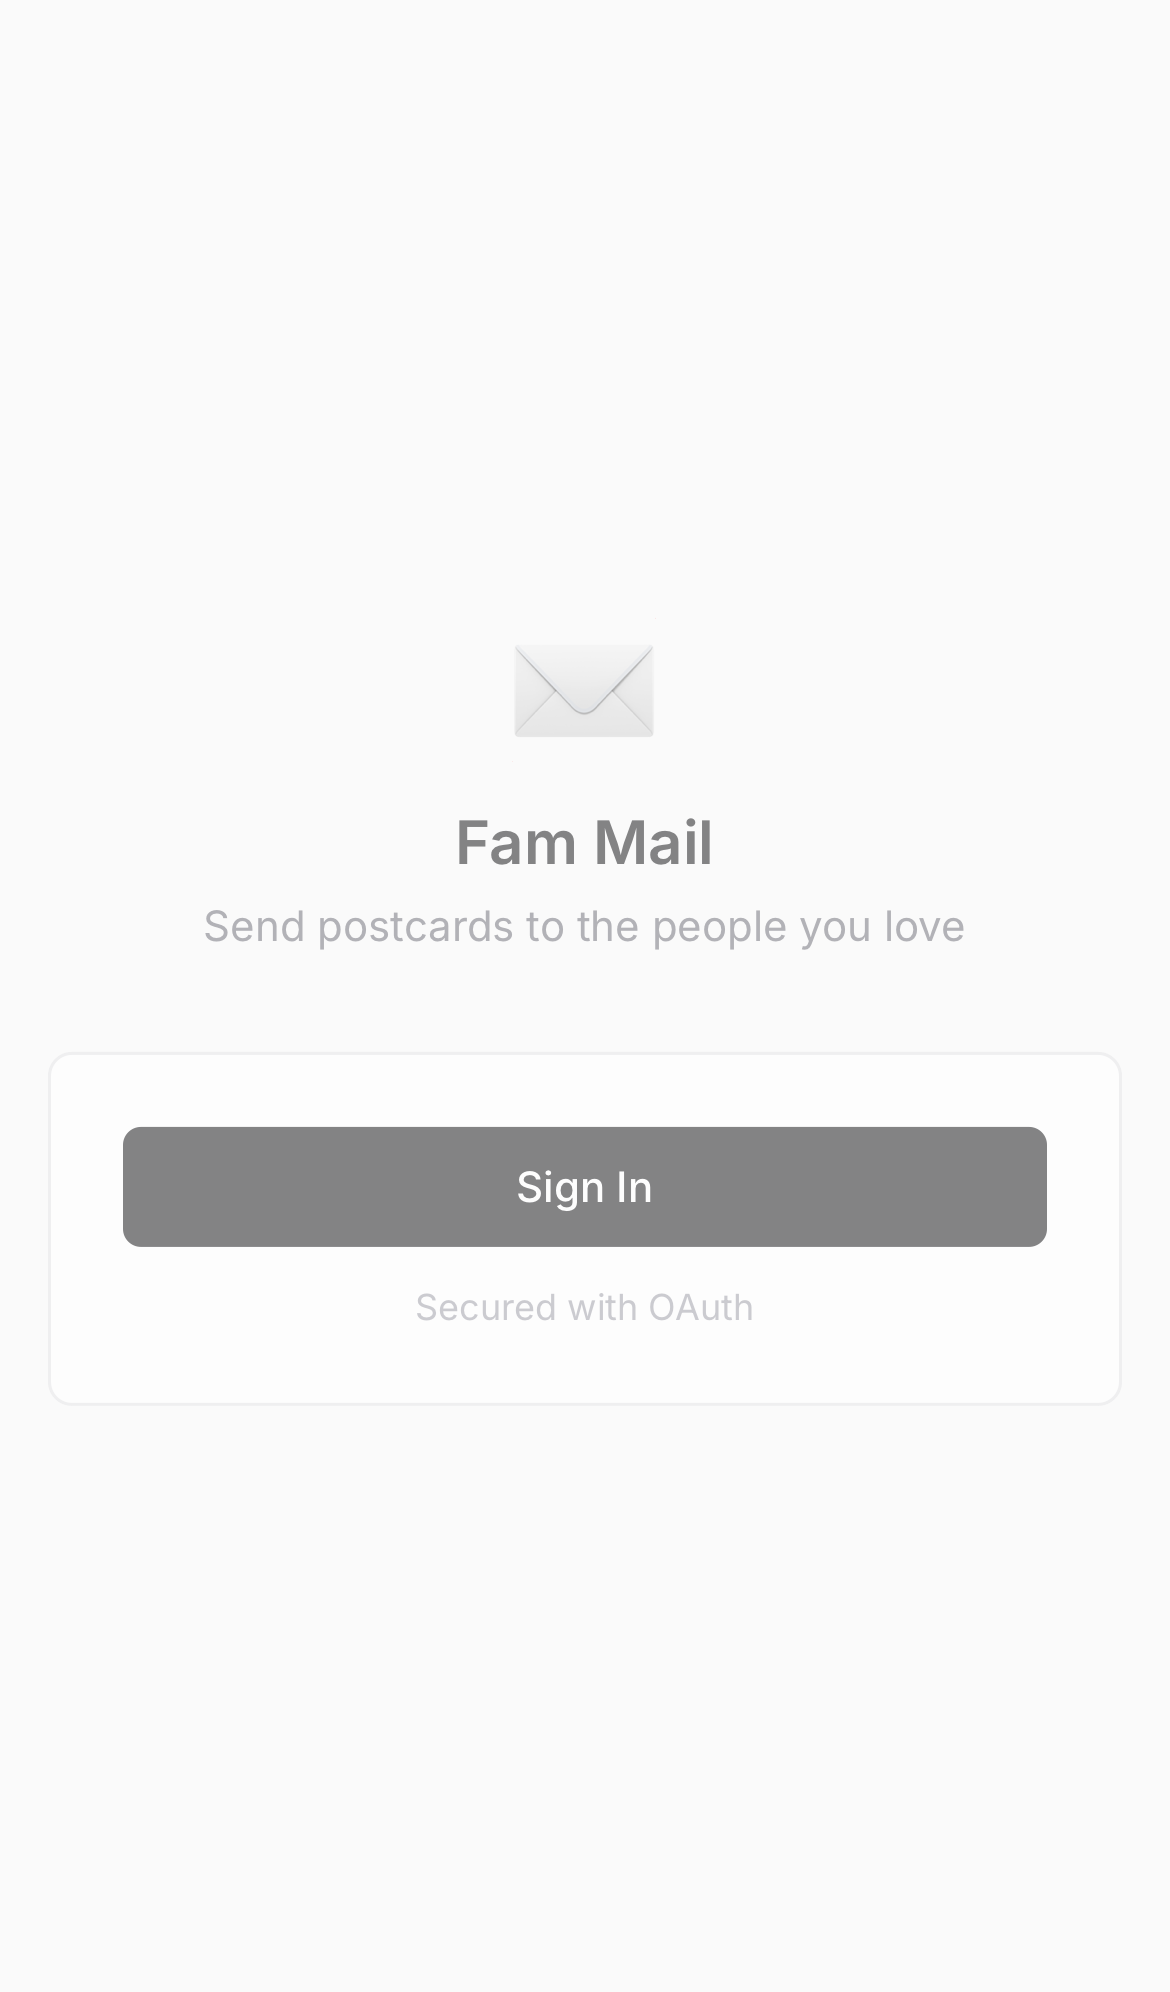
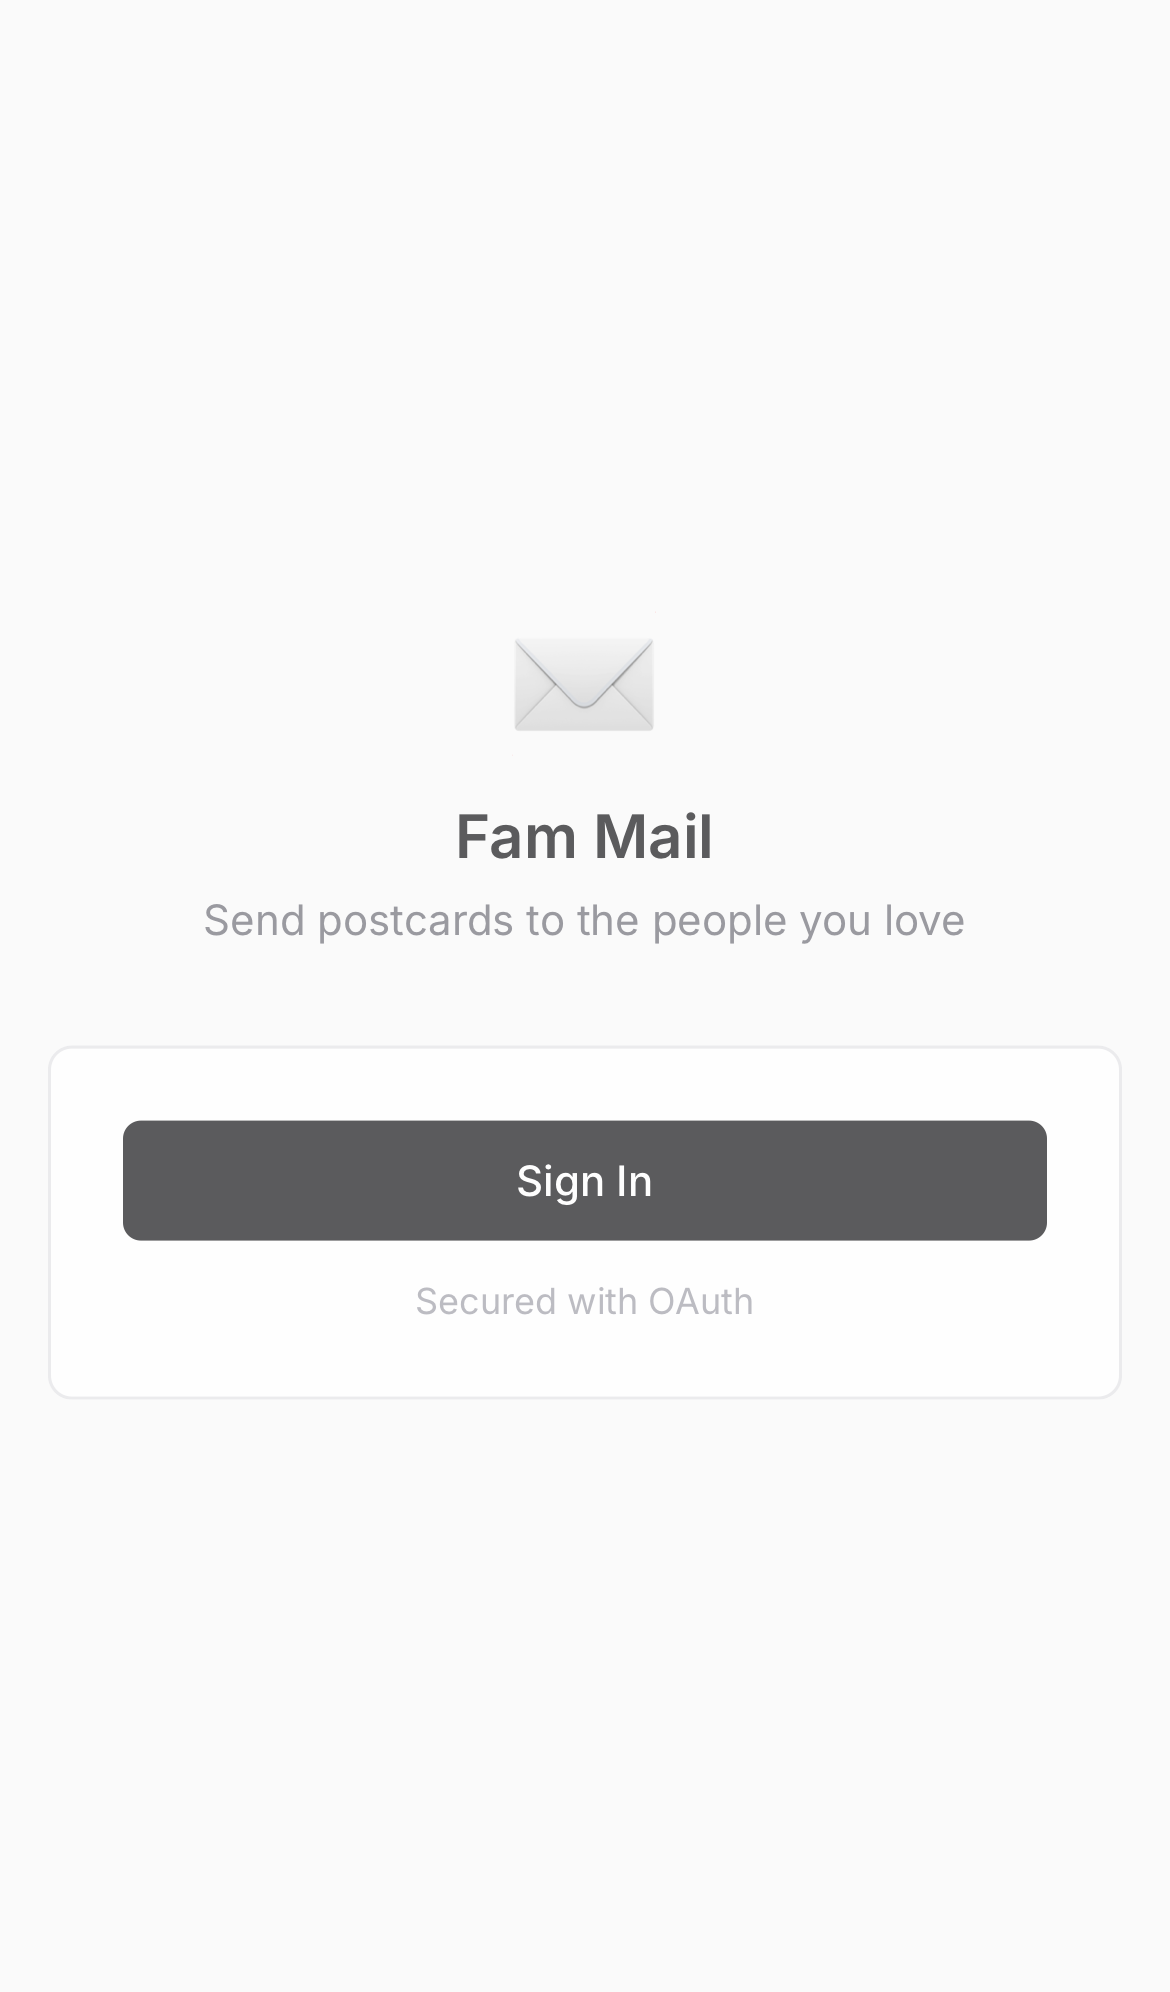
test: rewrite capture spec for the current wizard; pin viewports in responsive step-labels test

diff --git a/frontend/tests/screenshots/capture.spec.ts b/frontend/tests/screenshots/capture.spec.ts
@@ -1,118 +1,71 @@
-import { test, expect, type Page } from '@playwright/test'
-import { fileURLToPath } from 'node:url'
-import path from 'node:path'
-import fs from 'node:fs'
+import { test, expect } from '@playwright/test'
+import { setupMockAuth, setupMockApi } from '../e2e/helpers'
+import path from 'path'
+import { fileURLToPath } from 'url'
 
 const __dirname = path.dirname(fileURLToPath(import.meta.url))
-const screenshotDir = path.resolve(__dirname, '../../../docs/screenshots')
+const IMAGE_PATH = path.join(__dirname, '../e2e/fixtures/test-postcard.jpg')
+const OUT_DIR = path.join(__dirname, '../../docs/screenshots')
 
-const DEMO_USER = {
-  id: 'demo-user',
-  oidcSub: 'demo-sub',
-  oidcIssuer: 'https://auth.example.com',
-  email: 'demo@fammail.app',
-  emailVerified: true,
-  firstName: 'Demo',
-  lastName: 'User',
-  createdAt: '2024-01-01T00:00:00.000Z',
-  updatedAt: '2024-01-01T00:00:00.000Z',
-}
-
-const demoDraft = {
-  id: 'draft-demo-1',
-  userId: 'demo-user',
-  recipientAddress: {
-    firstName: 'Mom',
-    lastName: 'Fam',
-    addressLine1: '123 Maple Ave',
-    city: 'Austin',
-    provinceOrState: 'TX',
-    postalOrZip: '78701',
-    countryCode: 'US',
-  },
-  message: 'Happy Birthday! 🎂',
-  state: 'draft' as const,
-  size: '6x4' as const,
-  createdAt: new Date().toISOString(),
-  updatedAt: new Date().toISOString(),
-}
-
-async function mockAuth(page: Page) {
-  await page.addInitScript(() => {
-    localStorage.setItem('fam_mail_token', 'mock-token-for-screenshots')
-  })
-}
-
-async function mockAPIs(page: Page) {
-  await page.route('**/api/auth/me', route => {
-    route.fulfill({
-      status: 200,
-      contentType: 'application/json',
-      body: JSON.stringify({ user: DEMO_USER }),
-    })
-  })
-
-  await page.route('**/api/health', route => {
-    route.fulfill({
-      status: 200,
-      contentType: 'application/json',
-      body: JSON.stringify({ status: 'healthy', version: '1.0.0', timestamp: new Date().toISOString() }),
-    })
-  })
-
-  await page.route('**/api/drafts', route => {
-    if (route.request().method() === 'GET') {
-      return route.fulfill({
-        status: 200,
-        contentType: 'application/json',
-        body: JSON.stringify({ drafts: [demoDraft] }),
-      })
-    }
-    return route.fulfill({ status: 200, contentType: 'application/json', body: '{}' })
-  })
-
-  await page.route('**/api/postgrid/status', route => {
-    route.fulfill({
-      status: 200,
-      contentType: 'application/json',
-      body: JSON.stringify({ mode: 'test', mockMode: false }),
-    })
-  })
-}
-
-test.beforeAll(() => {
-  fs.mkdirSync(screenshotDir, { recursive: true })
+test.beforeEach(async ({ page }) => {
+  await setupMockAuth(page)
+  await setupMockApi(page)
 })
 
+async function walkToReview(page: import('@playwright/test').Page) {
+  await page.goto('/create')
+  await page.getByRole('button', { name: /United States/ }).click()
+  await page.locator('input[type="file"]').setInputFiles(IMAGE_PATH)
+  await page.getByRole('button', { name: /Write Message/ }).click()
+  await page.getByRole('button', { name: 'Click to write...' }).click()
+  await page.getByRole('textbox').fill('Happy birthday Grace! Wishing you a wonderful year ahead.')
+  await page.getByRole('button', { name: 'Done' }).click()
+  await page.getByRole('button', { name: /Add Address/ }).click()
+  await page.getByPlaceholder('Jane').fill('Grace')
+  await page.getByPlaceholder('Doe').fill('Hopper')
+  await page.getByPlaceholder('123 Main Street').fill('1 Spectacular Way')
+  await page.getByPlaceholder('Toronto').fill('New Haven')
+  await page.getByPlaceholder('ON', { exact: true }).fill('CT')
+  await page.getByPlaceholder('M5V 2T6').fill('06510')
+  await page.getByRole('button', { name: /Next: Review/ }).click()
+}
+
 test('capture dashboard screenshot', async ({ page }) => {
-  await mockAPIs(page)
-  await mockAuth(page)
+  await page.setViewportSize({ width: 1280, height: 800 })
   await page.goto('/')
-  await expect(page.getByText('Send a Postcard')).toBeVisible()
-  await expect(page.getByText('Mom Fam')).toBeVisible()
-  await page.screenshot({ path: path.join(screenshotDir, 'dashboard.png'), fullPage: false })
+  await expect(page.getByRole('heading', { name: 'Send something real' })).toBeVisible()
+  await page.screenshot({ path: path.join(OUT_DIR, 'desktop-dashboard.png') })
 })
 
 test('capture create postcard - photo step', async ({ page }) => {
-  await mockAPIs(page)
-  await mockAuth(page)
+  await page.setViewportSize({ width: 1280, height: 800 })
   await page.goto('/create')
-  await expect(page.getByText('Choose a Photo')).toBeVisible()
-  await page.screenshot({ path: path.join(screenshotDir, 'create-photo.png'), fullPage: false })
+  await page.getByRole('button', { name: /United States/ }).click()
+  await expect(page.getByText('Upload your photo')).toBeVisible()
+  await page.screenshot({ path: path.join(OUT_DIR, 'desktop-photo.png') })
 })
 
 test('capture create postcard - message step', async ({ page }) => {
-  await mockAPIs(page)
-  await mockAuth(page)
+  await page.setViewportSize({ width: 1280, height: 800 })
   await page.goto('/create')
-  await expect(page.getByText('Choose a Photo')).toBeVisible()
-  await page.locator('.steps .step').nth(1).click()
-  await expect(page.getByText('Write Your Message')).toBeVisible()
-  await page.screenshot({ path: path.join(screenshotDir, 'create-message.png'), fullPage: false })
+  await page.getByRole('button', { name: /United States/ }).click()
+  await page.locator('input[type="file"]').setInputFiles(IMAGE_PATH)
+  await page.getByRole('button', { name: /Write Message/ }).click()
+  await page.getByRole('button', { name: 'Click to write...' }).click()
+  await page.getByRole('textbox').fill('Happy birthday Grace! Wishing you a wonderful year ahead.')
+  await page.screenshot({ path: path.join(OUT_DIR, 'desktop-message.png') })
 })
 
-test('capture login page', async ({ page }) => {
-  await page.goto('/login')
-  await expect(page.getByRole('heading', { name: /Fam Mail/ })).toBeVisible()
-  await page.screenshot({ path: path.join(screenshotDir, 'login.png'), fullPage: false })
+test('capture review screenshot', async ({ page }) => {
+  await page.setViewportSize({ width: 1280, height: 800 })
+  await walkToReview(page)
+  await expect(page.getByRole('heading', { name: 'Review & Send' })).toBeVisible()
+  await page.screenshot({ path: path.join(OUT_DIR, 'desktop-review.png') })
+})
+
+test('capture mobile dashboard screenshot', async ({ page }) => {
+  await page.setViewportSize({ width: 390, height: 844 })
+  await page.goto('/')
+  await expect(page.getByRole('heading', { name: 'Send something real' })).toBeVisible()
+  await page.screenshot({ path: path.join(OUT_DIR, 'mobile-dashboard.png') })
 })

diff --git a/frontend/tests/e2e/responsive.spec.ts b/frontend/tests/e2e/responsive.spec.ts
@@ -33,9 +33,9 @@ test.describe('Responsive Layout', () => {
   })
 
   test('step labels show on desktop and collapse to numbers on mobile', async ({ page }) => {
+    await page.setViewportSize({ width: 1280, height: 800 })
     await page.goto('/create')
     const label = page.locator('span.hidden', { hasText: 'Destination' })
-    // Desktop default (1280x720): label text visible
     await expect(label).toBeVisible()
 
     await page.setViewportSize({ width: 375, height: 667 })

diff --git a/frontend/src/components/layout/VersionFooter.tsx b/frontend/src/components/layout/VersionFooter.tsx
@@ -22,7 +22,7 @@ export function VersionFooter() {
   if (!version) return null
   return (
     <footer className="py-6 text-center text-[11px] text-zinc-400">
-      Fam Mail v{version}
+      fam-mail v{version}
     </footer>
   )
 }
